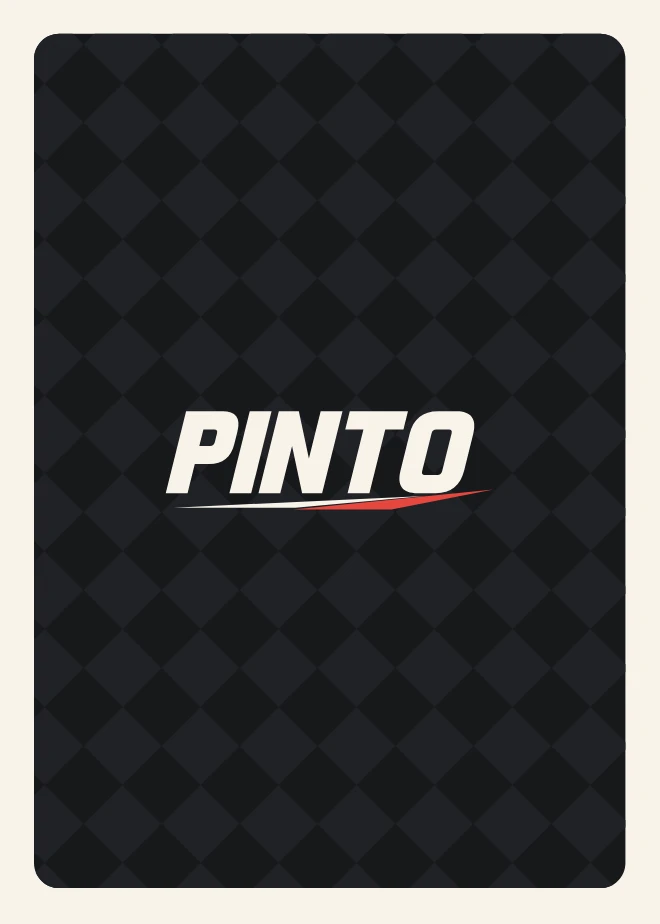
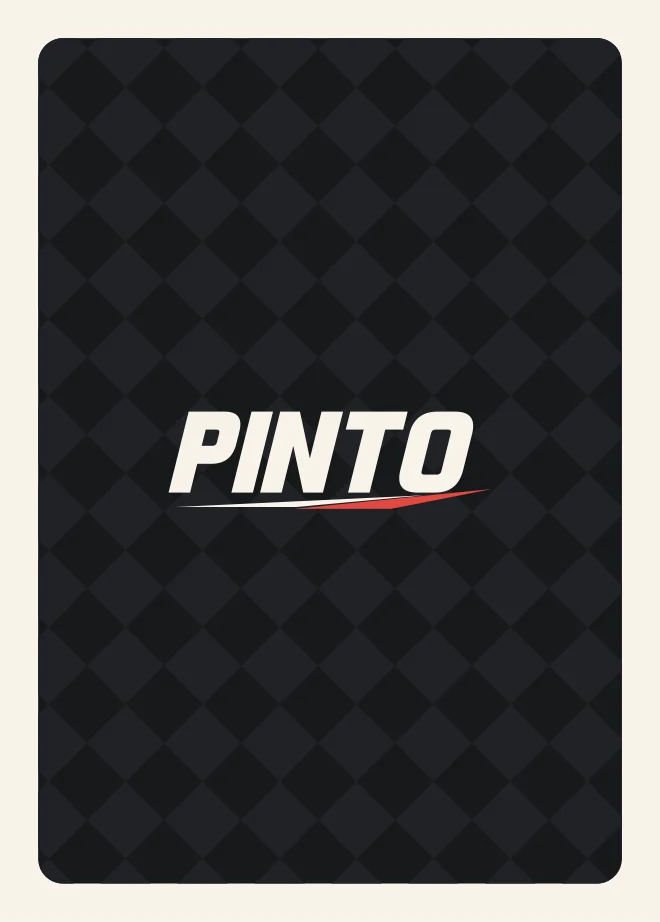
Assets: replace PINTO card art with the new Figma export
- Render the 15 new SVG cards (8 rhythm, 6 special, back) to 660x922 WebP
- Special cards now show their printed description, as on the physical deck
- Bump card images to ?v=4 and update width/height attrs on every page
- Update CLAUDE.md and README notes about the card files

Claude-Session: https://claude.ai/code/session_01NnqHpLbFLA2wp9k6winjPW

diff --git a/juegos/pinto/index.html b/juegos/pinto/index.html
@@ -136,14 +136,14 @@
         <p class="p-eyebrow">32 cartas · del 1 al 8</p>
         <h2 class="p-h2" id="ritmo-title">Cartas de ritmo</h2>
         <ul class="p-fan" aria-label="Cartas de ritmo del 1 al 8">
-          <li><img src="img/cartas/ritmo-1.webp?v=3" width="660" height="924" alt="Carta de ritmo 1" loading="lazy"></li>
-          <li><img src="img/cartas/ritmo-2.webp?v=3" width="660" height="924" alt="Carta de ritmo 2" loading="lazy"></li>
-          <li><img src="img/cartas/ritmo-3.webp?v=3" width="660" height="924" alt="Carta de ritmo 3" loading="lazy"></li>
-          <li><img src="img/cartas/ritmo-4.webp?v=3" width="660" height="924" alt="Carta de ritmo 4" loading="lazy"></li>
-          <li><img src="img/cartas/ritmo-5.webp?v=3" width="660" height="924" alt="Carta de ritmo 5" loading="lazy"></li>
-          <li><img src="img/cartas/ritmo-6.webp?v=3" width="660" height="924" alt="Carta de ritmo 6" loading="lazy"></li>
-          <li><img src="img/cartas/ritmo-7.webp?v=3" width="660" height="924" alt="Carta de ritmo 7" loading="lazy"></li>
-          <li><img src="img/cartas/ritmo-8.webp?v=3" width="660" height="924" alt="Carta de ritmo 8" loading="lazy"></li>
+          <li><img src="img/cartas/ritmo-1.webp?v=4" width="660" height="922" alt="Carta de ritmo 1" loading="lazy"></li>
+          <li><img src="img/cartas/ritmo-2.webp?v=4" width="660" height="922" alt="Carta de ritmo 2" loading="lazy"></li>
+          <li><img src="img/cartas/ritmo-3.webp?v=4" width="660" height="922" alt="Carta de ritmo 3" loading="lazy"></li>
+          <li><img src="img/cartas/ritmo-4.webp?v=4" width="660" height="922" alt="Carta de ritmo 4" loading="lazy"></li>
+          <li><img src="img/cartas/ritmo-5.webp?v=4" width="660" height="922" alt="Carta de ritmo 5" loading="lazy"></li>
+          <li><img src="img/cartas/ritmo-6.webp?v=4" width="660" height="922" alt="Carta de ritmo 6" loading="lazy"></li>
+          <li><img src="img/cartas/ritmo-7.webp?v=4" width="660" height="922" alt="Carta de ritmo 7" loading="lazy"></li>
+          <li><img src="img/cartas/ritmo-8.webp?v=4" width="660" height="922" alt="Carta de ritmo 8" loading="lazy"></li>
         </ul>
       </section>
 
@@ -153,27 +153,27 @@
         <h2 class="p-h2" id="especiales-title">Cartas especiales</h2>
         <ul class="p-specials p-specials--compact">
           <li class="p-card" style="--c: #e5463b">
-            <img src="img/cartas/bandera-roja.webp?v=3" width="660" height="924" alt="" loading="lazy">
+            <img src="img/cartas/bandera-roja.webp?v=4" width="660" height="922" alt="" loading="lazy">
             <h3>Bandera Roja</h3>
           </li>
           <li class="p-card" style="--c: #f2bd23">
-            <img src="img/cartas/bandera-amarilla.webp?v=3" width="660" height="924" alt="" loading="lazy">
+            <img src="img/cartas/bandera-amarilla.webp?v=4" width="660" height="922" alt="" loading="lazy">
             <h3>Bandera Amarilla</h3>
           </li>
           <li class="p-card" style="--c: #22b3c4">
-            <img src="img/cartas/rebufo.webp?v=3" width="660" height="924" alt="" loading="lazy">
+            <img src="img/cartas/rebufo.webp?v=4" width="660" height="922" alt="" loading="lazy">
             <h3>Rebufo</h3>
           </li>
           <li class="p-card" style="--c: #e8e2d6">
-            <img src="img/cartas/bandera-a-cuadros.webp?v=3" width="660" height="924" alt="" loading="lazy">
+            <img src="img/cartas/bandera-a-cuadros.webp?v=4" width="660" height="922" alt="" loading="lazy">
             <h3>Bandera a Cuadros</h3>
           </li>
           <li class="p-card" style="--c: #9b4fd8">
-            <img src="img/cartas/vuelta-rapida.webp?v=3" width="660" height="924" alt="" loading="lazy">
+            <img src="img/cartas/vuelta-rapida.webp?v=4" width="660" height="922" alt="" loading="lazy">
             <h3>Vuelta Rápida</h3>
           </li>
           <li class="p-card" style="--c: #2f86de">
-            <img src="img/cartas/bandera-azul.webp?v=3" width="660" height="924" alt="" loading="lazy">
+            <img src="img/cartas/bandera-azul.webp?v=4" width="660" height="922" alt="" loading="lazy">
             <h3>Bandera Azul</h3>
           </li>
         </ul>
@@ -205,7 +205,7 @@
 
       <!-- Cierre -->
       <section class="p-cta" aria-labelledby="cta-title">
-        <img class="p-cta__card" src="img/cartas/reverso.webp?v=3" width="660" height="924" alt="" loading="lazy">
+        <img class="p-cta__card" src="img/cartas/reverso.webp?v=4" width="660" height="922" alt="" loading="lazy">
         <div class="p-cta__copy">
           <h2 class="p-h2" id="cta-title">Muy pronto en la parrilla de salida</h2>
           <p>PINTO está calentando motores. Síguenos para enterarte primero de dónde conseguirlo.</p>

diff --git a/juegos/pinto/instrucciones/index.html b/juegos/pinto/instrucciones/index.html
@@ -145,27 +145,27 @@
         <h2 class="p-h2" id="especiales-title">Cartas especiales</h2>
         <ul class="p-specials">
           <li class="p-card" style="--c: #e5463b">
-            <img src="../img/cartas/bandera-roja.webp?v=3" width="660" height="924" alt="" loading="lazy">
+            <img src="../img/cartas/bandera-roja.webp?v=4" width="660" height="922" alt="" loading="lazy">
             <div><h3>Bandera Roja</h3><p>Cierra la pista sin descartar la pila. El siguiente jugador tiene vía libre. Esta carta puede jugarse siempre.</p></div>
           </li>
           <li class="p-card" style="--c: #f2bd23">
-            <img src="../img/cartas/bandera-amarilla.webp?v=3" width="660" height="924" alt="" loading="lazy">
+            <img src="../img/cartas/bandera-amarilla.webp?v=4" width="660" height="922" alt="" loading="lazy">
             <div><h3>Bandera Amarilla</h3><p>Obliga al siguiente jugador a jugar ritmos bajos. Esta carta <strong>NO</strong> puede jugarse sobre ritmos altos, Vuelta Rápida o Rebufo.</p></div>
           </li>
           <li class="p-card" style="--c: #22b3c4">
-            <img src="../img/cartas/rebufo.webp?v=3" width="660" height="924" alt="" loading="lazy">
+            <img src="../img/cartas/rebufo.webp?v=4" width="660" height="922" alt="" loading="lazy">
             <div><h3>Rebufo</h3><p>Permite colocar hasta dos valores consecutivos de ritmos altos. Puedes jugarla sobre ritmos bajos u otro Rebufo.</p></div>
           </li>
           <li class="p-card" style="--c: #e8e2d6">
-            <img src="../img/cartas/bandera-a-cuadros.webp?v=3" width="660" height="924" alt="" loading="lazy">
+            <img src="../img/cartas/bandera-a-cuadros.webp?v=4" width="660" height="922" alt="" loading="lazy">
             <div><h3>Bandera a Cuadros</h3><p>Termina la etapa y descarta la pila. El siguiente jugador tiene vía libre. Esta carta puede jugarse siempre.</p></div>
           </li>
           <li class="p-card" style="--c: #9b4fd8">
-            <img src="../img/cartas/vuelta-rapida.webp?v=3" width="660" height="924" alt="" loading="lazy">
+            <img src="../img/cartas/vuelta-rapida.webp?v=4" width="660" height="922" alt="" loading="lazy">
             <div><h3>Vuelta Rápida</h3><p>Carta de ritmo más alto del juego. Esta carta <strong>NO</strong> puede jugarse justo después de una Bandera Amarilla.</p></div>
           </li>
           <li class="p-card" style="--c: #2f86de">
-            <img src="../img/cartas/bandera-azul.webp?v=3" width="660" height="924" alt="" loading="lazy">
+            <img src="../img/cartas/bandera-azul.webp?v=4" width="660" height="922" alt="" loading="lazy">
             <div><h3>Bandera Azul</h3><p>Salta el turno del siguiente jugador. Esta carta <strong>NO</strong> puede jugarse sobre una Bandera Amarilla, Rebufo o Vuelta Rápida.</p></div>
           </li>
         </ul>
@@ -220,7 +220,7 @@
 
       <!-- Closing -->
       <section class="p-cta" aria-labelledby="cierre-title">
-        <img class="p-cta__card" src="../img/cartas/reverso.webp?v=3" width="660" height="924" alt="" loading="lazy">
+        <img class="p-cta__card" src="../img/cartas/reverso.webp?v=4" width="660" height="922" alt="" loading="lazy">
         <div class="p-cta__copy">
           <h2 class="p-h2" id="cierre-title">¿Una jugada en duda?</h2>
           <p>El reglamento oficial tiene todos los casos especiales, las preguntas frecuentes y la puntuación completa del campeonato.</p>

diff --git a/index.html b/index.html
@@ -148,8 +148,8 @@
 
         <a class="h-game" href="juegos/pinto/" aria-labelledby="pinto-name">
           <div class="h-game__art">
-            <img class="h-game__card h-game__card--a" src="juegos/pinto/img/cartas/ritmo-8.webp?v=3" width="660" height="924" alt="" loading="lazy">
-            <img class="h-game__card h-game__card--b" src="juegos/pinto/img/cartas/bandera-a-cuadros.webp?v=3" width="660" height="924" alt="" loading="lazy">
+            <img class="h-game__card h-game__card--a" src="juegos/pinto/img/cartas/ritmo-8.webp?v=4" width="660" height="922" alt="" loading="lazy">
+            <img class="h-game__card h-game__card--b" src="juegos/pinto/img/cartas/bandera-a-cuadros.webp?v=4" width="660" height="922" alt="" loading="lazy">
             <img class="h-game__box" src="assets/pinto-caja.webp?v=2" width="560" height="798" alt="Caja del juego PINTO" loading="lazy">
           </div>
           <div class="h-game__copy">
@@ -227,7 +227,7 @@
             <h2 class="h-h2" id="join-title">Entérate <span class="accent">primero.</span></h2>
             <p class="h-join__lead">Suscríbete y recibe novedades, adelantos y contenido exclusivo de Kori Labs directo en tu correo.</p>
             <div class="h-join__gift">
-              <img src="juegos/pinto/img/cartas/reverso.webp?v=3" width="660" height="924" alt="" loading="lazy">
+              <img src="juegos/pinto/img/cartas/reverso.webp?v=4" width="660" height="922" alt="" loading="lazy">
               <p><strong>De regalo:</strong> una plantilla exclusiva para jugar PINTO en modo Temporada, lista para imprimir cuando PINTO llegue a tu mesa.</p>
             </div>
           </div>

diff --git a/CLAUDE.md b/CLAUDE.md
@@ -71,8 +71,8 @@ comments just to translate them — only translate what you are already touching
 │       ├── box3d.js         Auto-rotating, draggable CSS-3D box with per-face shading (no deps, respects reduced motion)
 │       ├── instrucciones/index.html  Rules summary + "Ver reglamento" button (opens the PDF in a new tab, no `download` attr so phones open it). TARGET OF THE PRINTED QR — never move
 │       ├── reglamento.pdf   Official rules PDF (v1.3, source of truth). Linked from instrucciones/ only
-│       └── img/             caja-*.webp (6 box faces), cartas/*.webp (card art, 660×924, thin cream border baked in;
-│                            special cards have their description paragraph removed),
+│       └── img/             caja-*.webp (6 box faces), cartas/*.webp (card art, 660×922, cream border baked in,
+│                            rendered from the Figma SVG export; special cards include their description),
 │                            logo-pinto.webp, og-pinto.jpg (share preview)
 ├── pinto/reglas/index.html  Meta-refresh → /juegos/pinto/instrucciones/ (short alias; keep working)
 ├── privacidad/index.html    Privacy policy (only email is collected, via Sender; contact info@korilabscr.com)
@@ -139,7 +139,7 @@ the size/page count shown next to the download button.
 - **Cache busting:** CSS/JS/image links carry `?v=N`. When you change a file, bump its `N` **in every
   page that links it** (e.g. `home.css` is linked from `index.html` *and* `privacidad/index.html`).
   Current: `styles.css?v=2`, `home.css?v=9` (index and privacidad),
-  `pinto.css?v=12`, card images `?v=3`, `legal.css?v=1`, `box3d.js?v=2`, `favicon.svg?v=2`, box faces `?v=3`.
+  `pinto.css?v=12`, card images `?v=4`, `legal.css?v=1`, `box3d.js?v=2`, `favicon.svg?v=2`, box faces `?v=3`.
 - **Relative paths everywhere** (`../../css/…`). Pages live in folders as `index.html` so URLs are clean
   (`/juegos/pinto/`). New pages: create `folder/index.html`, copy the head/header/footer of a sibling page.
 - **Sender (newsletter):** universal script in the `<head>` of `index.html`; form is

diff --git a/README.md b/README.md
@@ -39,7 +39,7 @@ assets/pinto-caja.webp     Caja de PINTO para la tarjeta de la portada
   a `juegos/pinto/`. Cuando haya más juegos, cambia `juegos/index.html` por un listado.
 - **Caja 3D:** son seis imágenes (`img/caja-*.webp`) montadas con CSS 3D. Si cambia el diseño de la caja,
   reemplaza esas imágenes manteniendo las proporciones (ancho 758 · alto 1057 · fondo 244).
-- **Cartas:** `img/cartas/*.webp`, exportadas del "Deck v1.0" de Figma.
+- **Cartas:** `img/cartas/*.webp`, exportadas de Figma (SVG convertido a WebP de 660 × 922). Al cambiarlas, sube su `?v=N` en todas las páginas que las usan.
 - **Caché:** los enlaces a CSS y JS llevan `?v=N`. Al cambiar esos archivos, sube el número para que los
   navegadores descarguen la versión nueva en vez de usar la guardada.
 
